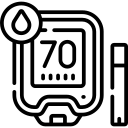
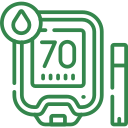
mudanças realizadas

diff --git a/front-hackercidadao/components/Posts/Post.js b/front-hackercidadao/components/Posts/Post.js
@@ -5,9 +5,10 @@ import styles from "./post.module.css";
 export default function Post(){
     return(
         <div className={styles.section}>
-            <h1 className={styles.userName}>Nome</h1>
-            <h2 className={styles.title}>Título</h2>
-            <p className={styles.commets}>Descrição</p>
+            <div className={styles.margin}>
+            <h1 className={styles.userName}>Carlos Pinheiro</h1>
+            <h2 className={styles.title}>Rotina Matinal</h2>
+            <p className={styles.commets}>Hoje eu acordei e fiz o meu café da manhã com pão e ovo.</p>
             <div className={styles.inputs}>
                 <input 
                     className={styles.input}
@@ -23,7 +24,47 @@ export default function Post(){
                     />
                 </button>
             </div>
-
+            </div>
+            <div>
+            <h1 className={styles.userName}>Joana Bezerra</h1>
+            <h2 className={styles.title}>Praticando esportes</h2>
+            <p className={styles.commets}>Hoje pratiquei vários tipos de esportes radicais, como skate e surf..</p>
+            <div className={styles.inputs}>
+                <input 
+                    className={styles.input}
+                    type="text"
+                    placeholder="adicionar um comentário"    
+                />
+                <button className={styles.sendButton}>
+                    <Image 
+                    src="/send-message.png"
+                    width={20}
+                    height={20}
+                    alt="Send button"
+                    />
+                </button>
+            </div>
+            </div>
+            <div>
+            <h1 className={styles.userName}>Lobato Figueiredo</h1>
+            <h2 className={styles.title}>Aprendendo e cozinhando</h2>
+            <p className={styles.commets}>Sempre gostei de cozinhar, agora aprendi receitas saudáveis</p>
+            <div className={styles.inputs}>
+                <input 
+                    className={styles.input}
+                    type="text"
+                    placeholder="adicionar um comentário"    
+                />
+                <button className={styles.sendButton}>
+                    <Image 
+                    src="/send-message.png"
+                    width={20}
+                    height={20}
+                    alt="Send button"
+                    />
+                </button>
+            </div>
+            </div>
         </div>
     )
 }

diff --git a/front-hackercidadao/components/Profile/Profile.js b/front-hackercidadao/components/Profile/Profile.js
@@ -17,7 +17,7 @@ export default function Profile() {
       showCancelButton: true,
       cancelButtonText: "Cancelar",
       confirmButtonText: "Confirmar",
-      showLoaderOnConfirm: true, // Aqui será a requisição
+      showLoaderOnConfirm: true,
       preConfirm: async () => {
         try {
           const response = await fetch(
@@ -40,7 +40,7 @@ export default function Profile() {
     }).then((result) => {
       if (result.isConfirmed) {
         const glicemia = result.value;
-        // Validação básica opcional
+  
         if (!glicemia || glicemia <= 0) {
           Swal.fire({
             title: "Valor inválido",
@@ -48,7 +48,6 @@ export default function Profile() {
           });
           return;
         }
-        // Aqui você pode salvar no localStorage, enviar pra API etc.
         Swal.fire({
           title: "Medição registrada",
           text: `Glicemia: ${glicemia}`,
@@ -77,6 +76,16 @@ export default function Profile() {
 
       <section className={styles.sectionList}>
         <ul>
+          <li>
+            <button className={styles.button}>
+              <Image
+                alt="Programing Icon"
+                height={30}
+                src="/category.png"
+                width={30}/>
+              <span>Feed</span>
+            </button>
+          </li>
           <li>
             <button className={styles.button}>
               <Image
@@ -112,7 +121,7 @@ export default function Profile() {
                 height={35}
                 alt="CheckList Icon"
               />
-              <span>"Registrar medição</span>
+              <span>Registrar medição</span>
             </button>
           </li>
           <li>
@@ -123,7 +132,7 @@ export default function Profile() {
                 height={35}
                 alt="Calendar Icon"
               />
-              <span>Agenda Consulta</span>
+              <span>Agenda</span>
             </Link>
           </li>
           <li>

diff --git a/front-hackercidadao/app/page.js b/front-hackercidadao/app/page.js
@@ -116,7 +116,11 @@ export default function Home() {
   return (
     <div>
       <header className={styles.header}>
-        <h1 className={styles.headerTitle}>Cognit</h1>
+        <Image 
+        src="/cognitLogo.png"
+        width={120}
+        height={40}
+        alt="Cognit Logo"/>
       </header>
       <main className={styles.main}>
         <Profile />
@@ -219,7 +223,7 @@ export default function Home() {
         onClick={openCloseChat}
         id="alertButton"
       >
-        <Image src="/danger.png" width={40} height={40} alt="danger icon" />
+        <Image src="/live-chat.png" width={50} height={50} alt="danger icon" />
       </button>
     </div>
   )

diff --git a/front-hackercidadao/components/Profile/profile.module.css b/front-hackercidadao/components/Profile/profile.module.css
@@ -41,11 +41,8 @@
                 align-items: center;
                 gap: 8px;
                 cursor: pointer;
-                
-                .premium{
-                    color: #CD9801;
-                
-                }
+
+                color: #34864c;
             }
             }
             li:hover{

diff --git a/front-hackercidadao/components/Pending/Pending.js b/front-hackercidadao/components/Pending/Pending.js
@@ -3,7 +3,7 @@ import styles from "./pending.module.css";
 export default function Pending(){
     return(
         <div className={styles.section}>
-            <h1 className={styles.title}>Relatórios em abertos: </h1>
+            <h1 className={styles.title}>Pesquisas em abertas: </h1>
         </div>
     )
 }

diff --git a/front-hackercidadao/app/page.module.css b/front-hackercidadao/app/page.module.css
@@ -74,7 +74,7 @@
   width: 75px;
   height: 75px;
 
-  background-color: #ff0000;
+  background-color: #34864c;
   border-radius: 50%;
   border: 0;
 
@@ -94,7 +94,8 @@
 }
 
 .alertButton:hover{
-  background-color: #d32323;
+  background-color: #4ca567;
+  transition: all .3s;
 }
 
 .chat{

diff --git a/front-hackercidadao/components/Posts/post.module.css b/front-hackercidadao/components/Posts/post.module.css
@@ -1,4 +1,8 @@
 .section{
+    .margin{
+        margin-bottom: 24px;
+    }
+
     .userName{  
         font-weight: 500;
         font-size: 20px;    
@@ -11,6 +15,7 @@
     
     .commets{
         font-size: 16px;
+        margin-bottom: 16px;
     }
     
     .input{
